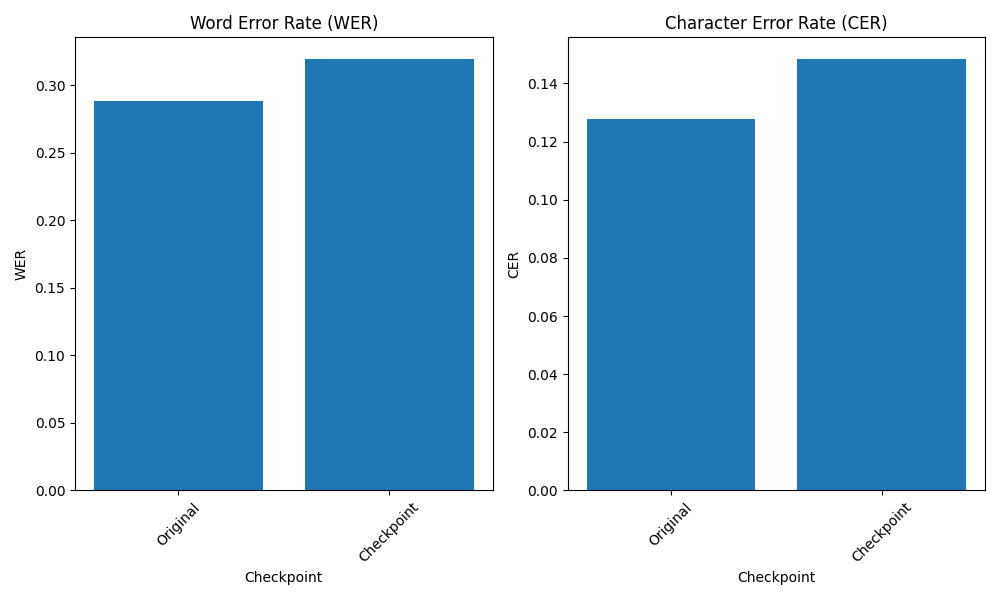
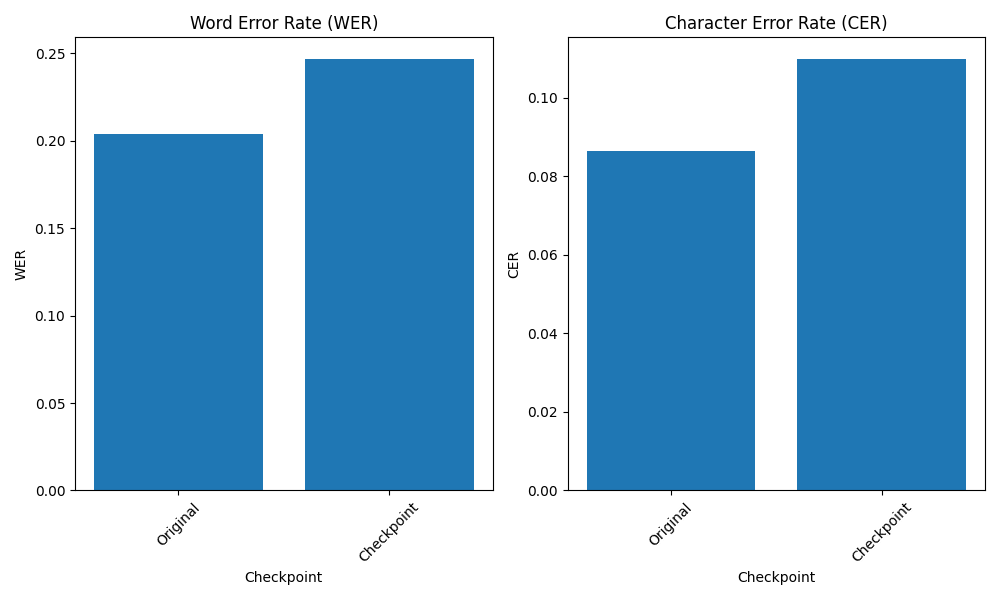
Experiments with different ASR models

diff --git a/accent_adaptive_asr/asr_ft.py b/accent_adaptive_asr/asr_ft.py
@@ -19,11 +19,11 @@ dataset = dataset.remove_columns(["accent"])
 dataset = dataset.cast_column("audio", Audio(sampling_rate=16000))
 
 
-DIR = f"/data/user_data/gganeshl/owsm_v3.2/exp"
+DIR = f"/data/user_data/gganeshl/owsm_v3.1_ebf_small/exp"
 os.makedirs(DIR, exist_ok=True)
-EXP_DIR = f"/data/user_data/gganeshl/owsm_v3.2/exp/finetune"
+EXP_DIR = f"/data/user_data/gganeshl/owsm_v3.1_ebf_small/exp/finetune"
 os.makedirs(EXP_DIR, exist_ok=True)
-STATS_DIR = f"/data/user_data/gganeshl/owsm_v3.2/exp/stats_finetune"
+STATS_DIR = f"/data/user_data/gganeshl/owsm_v3.1_ebf_small/exp/stats_finetune"
 os.makedirs(STATS_DIR, exist_ok=True)
 
 # Split dataset into train, validation, and test
@@ -39,8 +39,8 @@ print(f"Validation size: {(valid_dataset)}")
 print(f"Test size: {(test_dataset)}")
 
 # FINETUNE_MODEL="espnet/owsm_v3.1_ebf_base"
-# FINETUNE_MODEL = "espnet/owsm_v3.1_ebf_small"
-FINETUNE_MODEL = "espnet/owsm_v3.2"
+FINETUNE_MODEL = "espnet/owsm_v3.1_ebf_small"
+# FINETUNE_MODEL = "espnet/owsm_v3.2"
 owsm_language="eng" # language code in ISO3
 
 pretrained_model = Speech2Text.from_pretrained(
@@ -49,7 +49,7 @@ pretrained_model = Speech2Text.from_pretrained(
     beam_size=1,
     device='cuda'
 )
-torch.save(pretrained_model.s2t_model.state_dict(), '/data/user_data/gganeshl/owsm_v3.2/exp/original.pth')
+torch.save(pretrained_model.s2t_model.state_dict(), '/data/user_data/gganeshl/owsm_v3.1_ebf_small/exp/original.pth')
 pretrain_config = vars(pretrained_model.s2t_train_args)
 tokenizer = pretrained_model.tokenizer
 converter = pretrained_model.converter

diff --git a/accent_adaptive_asr/evaluate.py b/accent_adaptive_asr/evaluate.py
@@ -10,7 +10,7 @@ import pandas as pd
 from datasets import load_dataset, Audio
 
 # Initialize model
-FINETUNE_MODEL = "espnet/owsm_v3.1_ebf_base"
+FINETUNE_MODEL = "espnet/owsm_v3.2"
 owsm_language = "eng"  # language code in ISO3
 device = 'cuda' if torch.cuda.is_available() else 'cpu'
 
@@ -23,7 +23,7 @@ pretrained_model = Speech2Text.from_pretrained(
 )
 
 # Save original model weights for comparison
-original_path = 'original.pth'
+original_path = '/data/user_data/gganeshl/owsm_v3.2/exp/original.pth'
 if not os.path.exists(original_path):
     print(f"Saving original model weights to {original_path}")
     torch.save(pretrained_model.s2t_model.state_dict(), original_path)
@@ -112,8 +112,8 @@ def main():
     
     # Define checkpoints to evaluate
     checkpoints = [
-        {"name": "Original", "path": "original.pth"},
-        {"name": "Checkpoint", "path": "./exp/finetune/valid.acc.best.pth"}
+        {"name": "Original", "path": "/data/user_data/gganeshl/owsm_v3.2/exp/original.pth"},
+        {"name": "Checkpoint", "path": "/data/user_data/gganeshl/owsm_v3.2/exp/finetune/valid.acc.best.pth"}
     ]
     
     # Filter to only include checkpoints that exist
@@ -176,7 +176,7 @@ def main():
     
     plt.tight_layout()
     plt.savefig("asr_evaluation_results.png")
-    print("Results plot saved to asr_evaluation_results.png")
+    print("Results plot saved to asr_evaluation_results-owsm_v3.2.png")
 
 if __name__ == "__main__":
     main()
